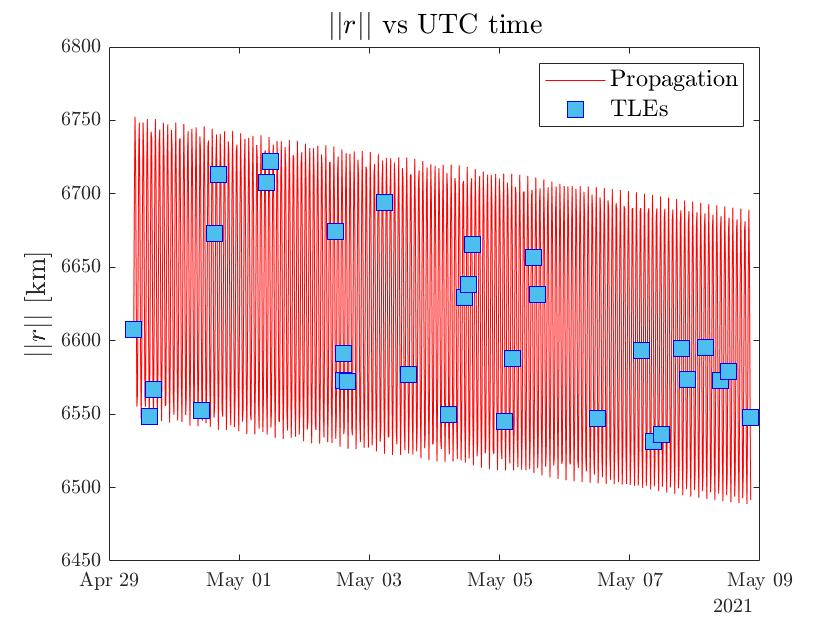
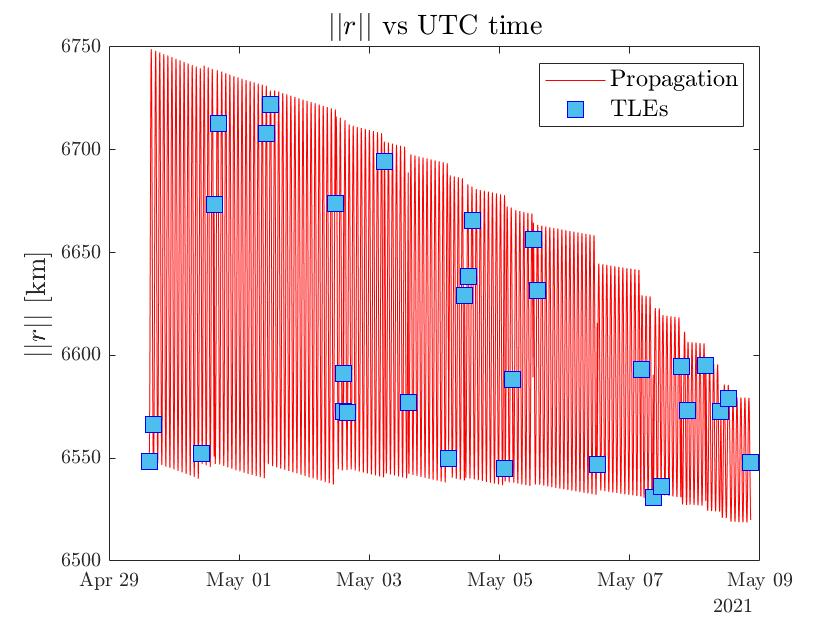
update trajectory and ballistic coeff interpol

diff --git a/main.m b/main.m
@@ -1,7 +1,7 @@
 % Authors: Laura Train & Juan María Herrera
 % Analysis of CZ5B re-entry
 
-%%
+%% 
 clear;clc;close all;
 
 addpath TLEs/
@@ -14,7 +14,7 @@ set(groot, 'defaultAxesTickLabelInterpreter',   'latex');
 set(groot, 'defaultLegendInterpreter',          'latex');
 set(groot, 'defaultLegendLocation',             'northeast');
 
-%%
+%% Parse TLEs and get orbital elements
 file = 'CZ5B_2021.txt';
 
 [TLE] = TLE_parse(file);
@@ -31,46 +31,114 @@ TLE.theta = TLE.orb_elements(:,6);
 % plot orbital elements
 figure()
 subplot(2,3,1)
-plot(TLE.timeJulian, TLE.a)
+plot(TLE.timeUTC, TLE.a)
 title("Semi-major axis [km]")
 
 subplot(2,3,2)
-plot(TLE.timeJulian, TLE.e)
+plot(TLE.timeUTC, TLE.e)
 title("Eccentricity")
 
 subplot(2,3,3)
-plot(TLE.timeJulian, TLE.inc)
+plot(TLE.timeUTC, TLE.inc)
 title("Inclination [deg]")
 
 subplot(2,3,4)
-plot(TLE.timeJulian, TLE.raan)
+plot(TLE.timeUTC, TLE.raan)
 title("RAAN [km]")
 
 subplot(2,3,5)
-plot(TLE.timeJulian, TLE.w)
+plot(TLE.timeUTC, TLE.w)
 title("Arg. of perigee [deg]")
 
 subplot(2,3,6)
-plot(TLE.timeJulian, TLE.theta)
+plot(TLE.timeUTC, TLE.theta)
 title("True anomaly [deg]")
 
 %% Propagate from initial state
 
 % TLE taken as initial and final conditions to propagate
-init_integ1 = 4;
-final_integ1 = 5;
+[propagate] = propagateOrbit(2, 3, TLE);
+totalPropagate.r_ECI = propagate.r_ECI;
+totalPropagate.v_ECI = propagate.v_ECI;
+totalPropagate.timeUTC = propagate.timeUTC;
 
-init_integ2 = 5;
-final_integ2 = 6;
+% Integrate the full domain
+for i = 3:31
+    [propagate] = propagateOrbit(i, i+1, TLE);
+    totalPropagate.r_ECI = [totalPropagate.r_ECI; propagate.r_ECI];
+    totalPropagate.v_ECI = [totalPropagate.v_ECI; propagate.v_ECI];
+    totalPropagate.timeUTC = [totalPropagate.timeUTC; propagate.timeUTC];
+end
 
-TLE.Bc = 0.025;
-
-[propagate] = propagateOrbit(init_integ1, final_integ1, TLE);
-[propagate2] = propagateOrbit(init_integ2, final_integ2, TLE);
-
+% Get ground trajectory of TLEs
 [TLE.lat, TLE.lon, TLE.alt] = ground_trajectory(TLE.r_ECI, TLE.timeUTC);
 
-%%
+%% Full integration
+
+% Propagate radius of the orbit
+totalPropagate.r_norm = sqrt(totalPropagate.r_ECI(:,1).^2 + ... 
+                        totalPropagate.r_ECI(:,2).^2 + totalPropagate.r_ECI(:,3).^2);
+
+% TLE radius of the orbit 
+TLE.r_norm = sqrt(TLE.r_ECI(2:end,1).^2 + TLE.r_ECI(2:end,2).^2 + TLE.r_ECI(2:end,3).^2);
+
+% Plot overall orbit propagation and TLEs
+figure()
+plot(totalPropagate.timeUTC,totalPropagate.r_norm,'r')
+title("$||r||$ vs UTC time", 'FontSize', 14)
+ylabel("$||r||$ [km]",'FontSize',14)
+hold on
+plot(TLE.timeUTC(2:end),TLE.r_norm,'s','MarkerSize',10,...
+    'MarkerEdgeColor','blue',...
+    'MarkerFaceColor',[0.3010, 0.7450, 0.9330]);
+legend("Propagation","TLEs",'FontSize',12)
+hold off
+
+%% Integrate one step
+
+% Choose integration points
+init_integ1 = 2;
+final_integ1 = 3;
+
+init_integ2 = 3;
+final_integ2 = 4;
+
+% Integrate orbits
+[propagate1] = propagateOrbit(init_integ1, final_integ1, TLE);
+[propagate2] = propagateOrbit(init_integ2, final_integ2, TLE);
+
+% Radius of the orbit
+propagate1.r_norm = sqrt(propagate1.r_ECI(:,1).^2 + propagate1.r_ECI(:,2).^2 + propagate1.r_ECI(:,3).^2);
+propagate2.r_norm = sqrt(propagate2.r_ECI(:,1).^2 + propagate2.r_ECI(:,2).^2 + propagate2.r_ECI(:,3).^2);
+
+% Radius of both orbits
+figure()
+plot(propagate1.timeUTC,propagate1.r_norm,'r')
+hold on
+plot(TLE.timeUTC(init_integ1:final_integ1),TLE.r_norm(init_integ1:final_integ1),'s','MarkerSize',10,...
+    'MarkerEdgeColor','red',...
+    'MarkerFaceColor',[0.3010, 0.7450, 0.9330]);
+hold on
+plot(propagate2.timeUTC,propagate2.r_norm,'b')
+hold on
+plot(TLE.timeUTC(init_integ2:final_integ2),TLE.r_norm(init_integ2:final_integ2),'s','MarkerSize',10,...
+    'MarkerEdgeColor','blue',...
+    'MarkerFaceColor',[0, 0, 1]);
+legend("Propagation","TLEs",'FontSize',12)
+hold off
+title("$||r||$ vs UTC time", 'FontSize', 14)
+ylabel("$||r||$ [km]",'FontSize',14)
+
+% Plot Earth full orbit
+figure()
+earth_sphere('km')
+hold on
+plot3(TLE.r_ECI(init_integ1:final_integ1,1),TLE.r_ECI(init_integ1:final_integ1,2),TLE.r_ECI(init_integ1:final_integ1,3),'r*')
+hold on
+plot3(propagate1.r_ECI(:,1),propagate1.r_ECI(:,2),propagate1.r_ECI(:,3),'k')
+hold off
+
+%% Ground track
 % Plot ground trajectory
 figure()
 opts.Color = [140,21,21]/255;
@@ -83,47 +151,11 @@ plot(TLE.lon(init_integ1),TLE.lat(init_integ1),'s','MarkerSize',10,...
     'MarkerEdgeColor','blue',...
     'MarkerFaceColor',[0.3010, 0.7450, 0.9330]);
 hold on
-plot(TLE.lon(final_integ1),TLE.lat(final_integ1),'s','MarkerSize',10,...
+plot(TLE.lon(final_integ2),TLE.lat(final_integ2),'s','MarkerSize',10,...
     'MarkerEdgeColor','red',...
     'MarkerFaceColor',[1 .6 .6]);
 hold off
 legend('Propagation','Initial TLE','Final TLE')
-
-%% See integration results
-
-propagate.r_norm = sqrt(propagate.r_ECI(:,1).^2 + propagate.r_ECI(:,2).^2 + propagate.r_ECI(:,3).^2);
-propagate2.r_norm = sqrt(propagate2.r_ECI(:,1).^2 + propagate2.r_ECI(:,2).^2 + propagate2.r_ECI(:,3).^2);
-% v_norm = sqrt(v(:,1).^2 + v(:,2).^2 + v(:,3).^2);
-TLE.r_norm = sqrt(TLE.r_ECI(:,1).^2 + TLE.r_ECI(:,2).^2 + TLE.r_ECI(:,3).^2);
-
-figure()
-plot(TLE.timeUTC(init_integ1:final_integ1),TLE.r_norm(init_integ1:final_integ1),'b*')
-plot(propagate.timeUTC,propagate.r_norm,'r')
-title("$||r||$ vs UTC time", 'FontSize', 14)
-ylabel("$||r||$ [km]",'FontSize',14)
-hold on
-plot(TLE.timeUTC(init_integ2:final_integ2),TLE.r_norm(init_integ2:final_integ2),'s','MarkerSize',10,...
-    'MarkerEdgeColor','blue',...
-    'MarkerFaceColor',[0.3010, 0.7450, 0.9330]);
-hold on
-plot(propagate.timeUTC,propagate.r_norm,'r')
-
-plot(TLE.timeUTC(init_integ1:final_integ1),TLE.r_norm(init_integ1:final_integ1),'s','MarkerSize',10,...
-    'MarkerEdgeColor','blue',...
-    'MarkerFaceColor',[0.3010, 0.7450, 0.9330]);
-hold on
-plot(propagate2.timeUTC,propagate2.r_norm,'b')
-legend("Propagation","TLEs",'FontSize',12)
-hold off
-
-%%
-figure()
-earth_sphere('km')
-hold on
-plot3(TLE.r_ECI(init_integ1:final_integ1,1),TLE.r_ECI(init_integ1:final_integ1,2),TLE.r_ECI(init_integ1:final_integ1,3),'r*')
-hold on
-plot3(propagate.r_ECI(:,1),propagate.r_ECI(:,2),propagate.r_ECI(:,3),'k')
-hold off
 
 %% Montecarlo Propagation
 

diff --git a/estimation/dragDyn.m b/estimation/dragDyn.m
@@ -1,7 +1,6 @@
-function der = dragDyn(t, x, Bc)
+function der = dragDyn(t, x, TLE)
     mu = 398600;                                % [km^3/s^2]
     Re = 6371;
-    
     wEarth = [ 0 0 2*pi/86164];
     r = x(1:3);
     v = x(4:6);
@@ -9,12 +8,13 @@ function der = dragDyn(t, x, Bc)
     h = norm(r) - Re;
     
 %     rho  = (6*1e-13)*exp( - ( h - 200000 ) / 30000 );
-    rho  = (6*1e-13)*exp( - ( h - 150000 ) / 35500 ); 
+    rho  = (6*1e-13)*exp( - ( h - 120000 ) / 30500 ); 
 %     rho  = (6*1e-14)*exp( - ( h - 18000 ) / 4000 ); 
-    
     
     vRel = (v - cross(wEarth',r));
     nvRel = norm(vRel); 
+    
+    Bc = interp1(TLE.timeJulian*24*3600,TLE.Bc,t);
     
     rDot = v;
     vDot = -(mu/norm(r)^3)*r - 1/2*rho*nvRel^2/Bc*(vRel/nvRel);

diff --git a/convert/utc_julian.m b/convert/utc_julian.m
@@ -1,9 +1,9 @@
 function [utc, julian] = utc_julian(tle_time)
     
-    a = char(string(tle_time));
+    a = num2str(tle_time,13);
     
-    year = str2num(strcat('20',a(1:2)));
-    rest = str2num(a(3:end));
+    year = str2double(strcat('20',a(1:2)));
+    rest = str2double(a(3:end));
     
     julian = juliandate([year,1,1,0,0,0]) + rest - 1;
     utc = datetime(julian,'convertfrom','juliandate');

diff --git a/estimation/propagateOrbit.m b/estimation/propagateOrbit.m
@@ -12,7 +12,7 @@ function [propagate] = propagateOrbit(init_integ, final_integ, TLE)
     % Propagate the orbit
     options = odeset('RelTol',1e-8,'AbsTol',1e-8); 
     
-    [t,y] = ode45(@dragDyn,linspace(t0, tf,1000), iniState, options, TLE.Bc);  
+    [t,y] = ode45(@dragDyn,linspace(t0, tf,1000), iniState, options, TLE);  
     
     propagate.t = t;
     propagate.r_ECI = y(:,1:3);
